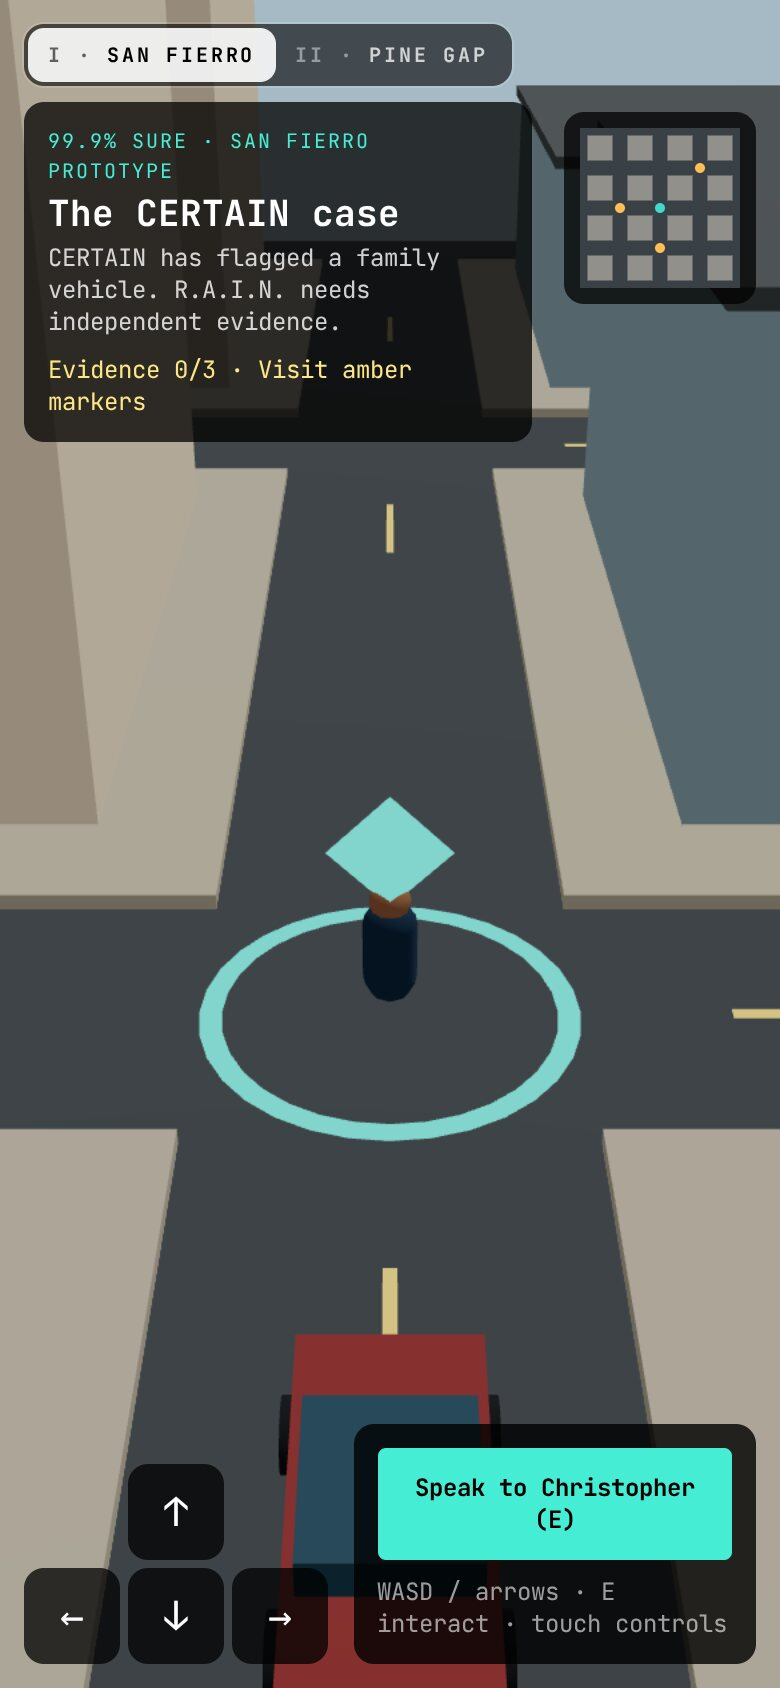
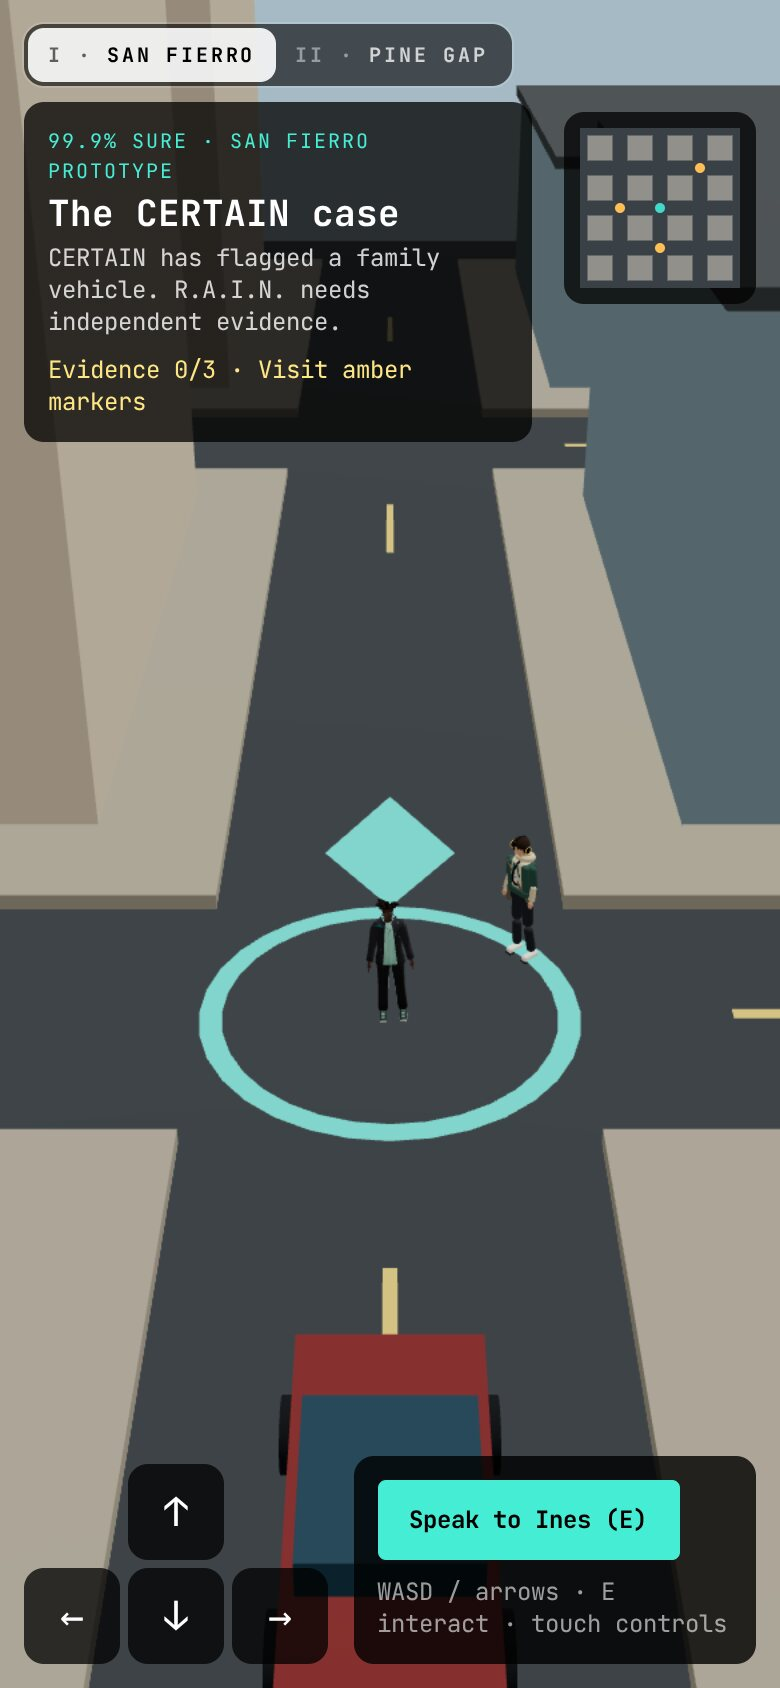
Refilm the San Fierro stills with Christopher as the player; remove the capture workflow

Changed region(s): [[0.4308, 0.8318, 0.9846, 0.9242], [0.4615, 0.5237, 0.5538, 0.6161], [0.6462, 0.4929, 0.7077, 0.5853]]

diff --git a/README.md b/README.md
@@ -51,7 +51,7 @@ The same repository also holds an earlier San Fierro prototype and a CLEO storyl
 
 | Arriving at the case | Collecting evidence |
 | --- | --- |
-| ![San Fierro opening: Christopher Woodyard at R.A.I.N.'s teal field HQ beside Ines, with the case card, district map and touch controls](docs/media/screens/san-fierro/start.jpg) | ![The sensor audit collected at an amber evidence marker on the centre street](docs/media/screens/san-fierro/evidence.jpg) |
+| ![San Fierro opening: Christopher Woodyard at R.A.I.N.'s teal field HQ beside Ines, with the case card, district map and touch controls](docs/media/screens/san-fierro/start.jpg) | ![Christopher on the centre street just after collecting the sensor audit, the first of three pieces of evidence](docs/media/screens/san-fierro/evidence.jpg) |
 | ![Driving the red car up the district's centre street](docs/media/screens/san-fierro/driving.jpg) | ![Back at HQ with all three observations: accept, reject or abstain](docs/media/screens/san-fierro/verdict.jpg) |
 | **Driving the district** | **The verdict** |
 
